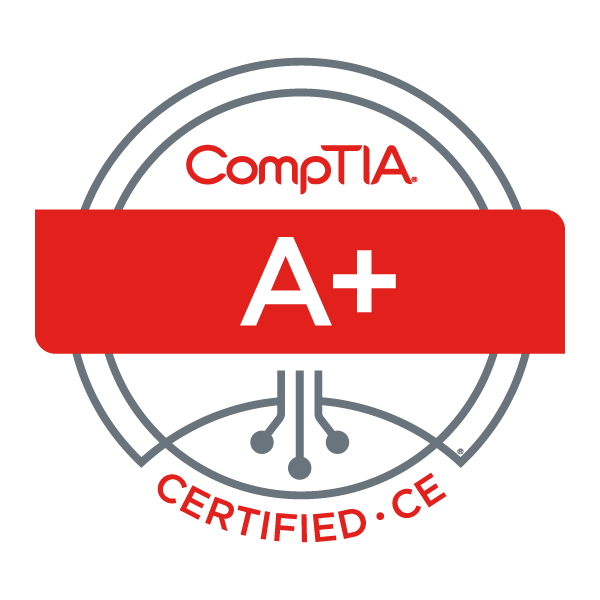
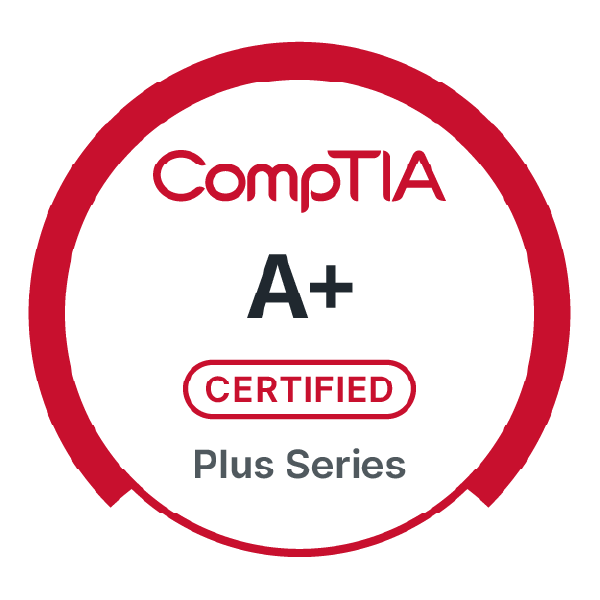
Added security+ and updated badges

diff --git a/credentials.html b/credentials.html
@@ -91,6 +91,16 @@
                 <tbody>
                   <tr>
                     <td>
+                      <a href="https://www.credly.com/badges/d8d0aae2-b114-49bb-9627-662b78f1eb08/public_url" target="_blank">
+                        <img src="Pictures/security+.png" alt="CompTIA Security+ Certification Badge" class="img-fluid rounded" style="max-width: 70px;">
+                      </a>
+                    </td>
+                    <td>Security+</td>
+                    <td>November 2026</td>
+                  </tr>
+
+                  <tr>
+                    <td>
                       <a href="https://www.credly.com/badges/ebe77e16-4a5a-4eff-a431-23a5d39a5918/public_url" target="_blank">
                         <img src="Pictures/CCNA.png" alt="Cisco CCNA Certification Badge" class="img-fluid rounded" style="max-width: 70px;">
                       </a>
@@ -102,7 +112,7 @@
                   <tr>
                     <td>
                       <a href="https://www.credly.com/badges/65d7b706-f9c1-4396-a44a-0a799ae20f4f/linked_in_profile" target="_blank">
-                        <img src="Pictures/A+.png" alt="CompTIA A+ Certification Badge" class="img-fluid rounded" style="max-width: 70px;">
+                        <img src="Pictures/a+.png" alt="CompTIA A+ Certification Badge" class="img-fluid rounded" style="max-width: 70px;">
                       </a>
                     </td>
                     <td>CompTIA A+</td>
@@ -132,7 +142,7 @@
                   <tr>
                     <td>
                       <a href="https://www.credly.com/badges/d34d3b44-172b-44ca-8398-1b4f44abb774/public_url" target="_blank">
-                        <img src="Pictures/Network+.png" alt="CompTIA Network+ Badge" class="img-fluid rounded" style="max-width: 70px;">
+                        <img src="Pictures/network+.png" alt="CompTIA Network+ Badge" class="img-fluid rounded" style="max-width: 70px;">
                       </a>
                     </td>
                     <td>CompTIA Network+</td>
@@ -153,7 +163,7 @@
             </div>
           </div>
         </section>
-    </main>
+  </main>
 
     <!-- Footer -->
     <div id="footer" class="mt-5"></div>

diff --git a/main.css b/main.css
@@ -260,10 +260,6 @@ main.container {
   transition: all 0.25s ease;
 }
 
-.certifications img {
-  width: 100px;
-}
-
 .certifications table {
   width: 90%;
   margin: auto;
